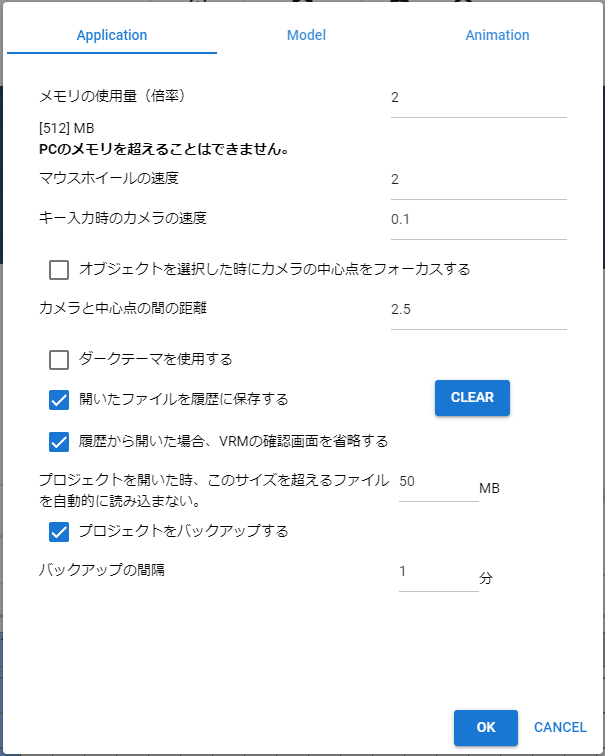
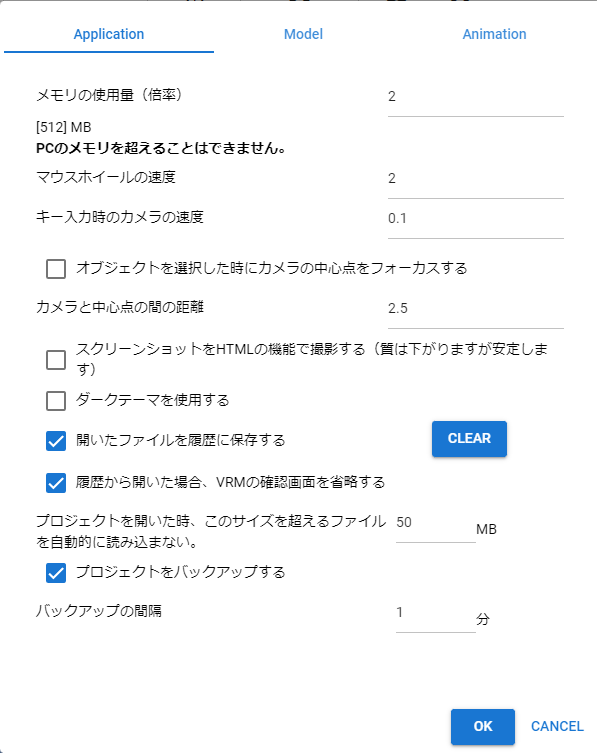
7/24夜時点

diff --git a/docs/source/man5/config.rst b/docs/source/man5/config.rst
@@ -55,6 +55,9 @@
 オブジェクトを選択した時にカメラの中心点をフォーカスする
     　3Dオブジェクトを選択したときに、そのオブジェクトをメインカメラの中心に画面内におさめるよう自動的に移動させます。ただし常に正面かつ若干俯瞰して向くためそれが煩わしい場合はオフにしてください。
 
+スクリーンショットをHTMLの機能で撮影する
+    　スクリーンショットをHTML/Javascript側の機能で撮影することで、若干質は下がりますがカメラを複数使う映像が正常に反映されるなど安定します。メインカメラおよびカメラオブジェクトを完全に切り替えて使う分にはどちらを使っても差はありません。必要に応じて切り替えてください。
+
 ダークテーマを使用する
     　アプリの見た目をダークテーマに変更します。
 

diff --git a/docs/source/man2/operation_initial.rst b/docs/source/man2/operation_initial.rst
@@ -57,6 +57,18 @@ VRMの場合
 
     球、カプセル、円柱、立方体、平面（3D）、四辺形（2D）、水面
 
+.. admonition:: 特殊な水面オブジェクト
+
+    水面オブジェクトは常に波がアニメーションして動き続ける特殊なオブジェクトです。
+
+    .. image:: ../img/operation_initial_6.png
+        :align: center
+
+    |
+
+    テクスチャのプロパティも非常に多いですが、その分細かく設定すれば水面・海面だけでなく他の用途でも表現できるでしょう。うまく活用してください。
+
+    デフォルトのシェーダーは ``Water2`` です。
 
 
 |

diff --git a/docs/source/man2/operation_vrm.rst b/docs/source/man2/operation_vrm.rst
@@ -482,7 +482,7 @@ Ver 1.0.0 時点：
 2. 各種設定を好みで変更します。
 
 :シェーダー:
-    ``Standard`` ,  ``VRM/MToon`` , ``Water``, ``Water2`` のいずれかを選択します。
+    ``Standard`` ,  ``VRM/MToon`` , ``Water`` のいずれかを選択します。
 :色:
     テクスチャのベースの色を変更します。
 :カリングモード:

diff --git a/docs/source/man2/operation_obj.rst b/docs/source/man2/operation_obj.rst
@@ -84,7 +84,7 @@ OtherObject
 2. 各種設定を好みで変更します。
 
 :シェーダー:
-    ``Standard`` ,  ``VRM/MToon`` , ``Water``, ``Water2`` のいずれかを選択します。
+    ``Standard`` ,  ``VRM/MToon`` , ``Water`` のいずれかを選択します。
 :色:
     テクスチャのベースの色を変更します。
 :カリングモード:
